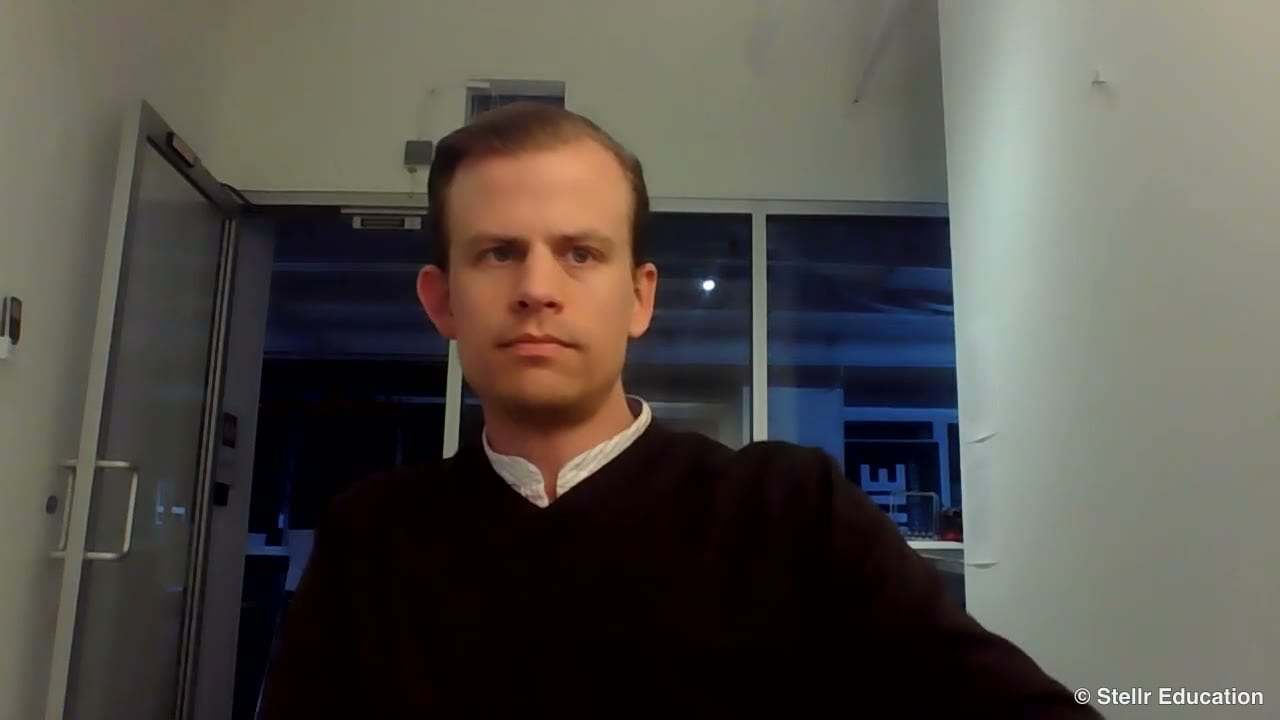
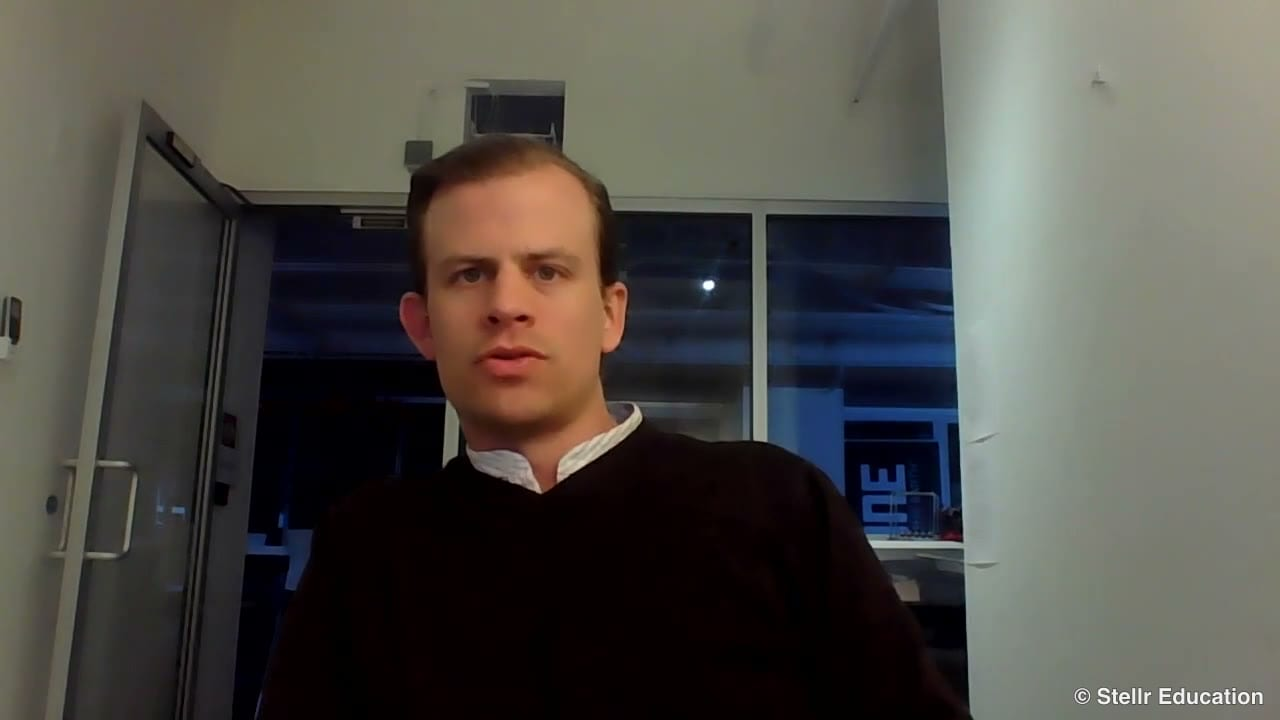
public page updates

Changed region(s): [[0.3125, 0.1222, 0.5625, 0.7028], [0.5625, 0.6111, 0.875, 1.0]]

diff --git a/app/(public)/why-stellr/page.tsx b/app/(public)/why-stellr/page.tsx
@@ -2,8 +2,9 @@ import type { Metadata } from 'next'
 import { ArrowRight, Check } from 'lucide-react'
 import { Launch, Certificate, Team, Award, Global } from '@stellr/icons'
 import { Hero, Eyebrow, Button } from '@stellr/web-ui'
-import { PageMedia } from '@/components/sections/PageMedia'
-import { PHOTOS, VIDEOS, QUOTES, COMPETITION } from '@/lib/media-manifest'
+import { VideoTestimonial } from '@/components/sections/VideoTestimonial'
+import { WorkCard } from '@/components/sections/WorkCard'
+import { VIDEOS, QUOTES, COMPETITION } from '@/lib/media-manifest'
 
 export const metadata: Metadata = {
   title: 'Why Stellr?',
@@ -123,6 +124,8 @@ export default function WhyStellrPage() {
                 <p className="mt-1.5 text-[15px] text-content-secondary leading-relaxed">{c.body}</p>
               </div>
             ))}
+            {/* Free-to-download document (moved here as a fourth card) */}
+            <WorkCard asset={COMPETITION['legacy-rfp-south-dakota-2025']} />
           </div>
         </div>
       </section>
@@ -167,6 +170,17 @@ export default function WhyStellrPage() {
                 For educators &amp; schools
               </Button>
             </div>
+
+            {/* Video testimonial (moved here, under the CTA buttons) */}
+            <figure className="mt-8">
+              <VideoTestimonial
+                src={VIDEOS['testimonial-sepp'].src}
+                poster={VIDEOS['testimonial-sepp'].poster}
+                captionsSrc={VIDEOS['testimonial-sepp'].captions}
+                title={VIDEOS['testimonial-sepp'].title}
+              />
+              <figcaption className="mt-3 text-sm font-semibold text-ink">{VIDEOS['testimonial-sepp'].title}</figcaption>
+            </figure>
           </div>
 
           {/* Checklist card */}
@@ -193,8 +207,8 @@ export default function WhyStellrPage() {
 
       {/* ── Parents ───────────────────────────────────────────────────── */}
       <section id="parents" className="section-padding bg-white scroll-mt-28">
-        <div className="container-max">
-          <div className="max-w-[680px]">
+        <div className="container-max grid grid-cols-1 lg:grid-cols-[1.05fr_0.95fr] gap-14 items-start">
+          <div>
             <SectionHead
               Icon={Team}
               tileBg="bg-space-violet"
@@ -210,18 +224,25 @@ export default function WhyStellrPage() {
               career can really look like.
             </p>
 
-            {/* Testimonial */}
+            {/* Testimonial — Jason Zibart, 2025 */}
             <blockquote className="mt-7 bg-space-violet-bg border-l-[3px] border-space-violet rounded-r-xl px-7 py-6">
               <p className="font-display text-xl font-medium text-ink leading-snug">
-                &ldquo;My son said it was one of the most exciting, exhilarating, challenging and memorable
-                events in his life.&rdquo;
+                &ldquo;{QUOTES['jason-zibart'].text}&rdquo;
               </p>
-              <footer className="mt-3 text-[13.5px] text-[#6B6790]">— Parent, 2022</footer>
+              <footer className="mt-3 text-[13.5px] text-[#6B6790]">
+                &mdash; {QUOTES['jason-zibart'].name} · {QUOTES['jason-zibart'].meta}
+              </footer>
             </blockquote>
+
+            <div className="mt-7">
+              <Button href={`${WWW}/events`} variant="primary">
+                Find an event near you
+              </Button>
+            </div>
           </div>
 
-          {/* Feature cards */}
-          <div className="grid grid-cols-1 sm:grid-cols-3 gap-4 mt-8 max-w-[680px]">
+          {/* Feature cards — right side, stacked */}
+          <div className="flex flex-col gap-4">
             {[
               {
                 title: 'Safe & structured',
@@ -241,12 +262,6 @@ export default function WhyStellrPage() {
                 <p className="mt-2 text-[14.5px] text-content-secondary leading-relaxed">{c.body}</p>
               </div>
             ))}
-          </div>
-
-          <div className="mt-7">
-            <Button href={`${WWW}/events`} variant="primary">
-              Find an event near you
-            </Button>
           </div>
         </div>
       </section>
@@ -347,9 +362,16 @@ export default function WhyStellrPage() {
           </div>
 
           <div className="flex flex-wrap items-center gap-3 mt-8">
-            <Button href={`${WWW}/contact?type=sponsorship`} variant="primary">
+            {/* Prospectus download — inactive until the document is ready (matches /network). */}
+            <button
+              type="button"
+              disabled
+              aria-disabled="true"
+              title="Coming soon"
+              className="inline-flex items-center justify-center gap-2 rounded-control px-6 py-3 font-subheading font-semibold text-sm text-content-faint bg-surface border border-line cursor-not-allowed opacity-70"
+            >
               Request prospectus
-            </Button>
+            </button>
             <a
               href={`${WWW}/donate`}
               className="inline-flex items-center justify-center gap-2 rounded-control px-6 py-3 font-subheading font-semibold text-sm text-white bg-donate-gold hover:bg-[#C9892C] transition-colors"
@@ -357,7 +379,7 @@ export default function WhyStellrPage() {
               Make a donation
             </a>
             <p className="text-[13.5px] text-content-faint">
-              Full packages, reach statistics and impact data included.
+              Prospectus coming soon — full packages, reach statistics and impact data.
             </p>
           </div>
         </div>
@@ -381,16 +403,6 @@ export default function WhyStellrPage() {
           </div>
         </div>
       </section>
-
-      {/* ── Media: proof, voices & student work ───────────────────────── */}
-      <PageMedia
-        heading="The proof, in their own words"
-        photos={[PHOTOS['why-1'], PHOTOS['why-2'], PHOTOS['why-3'], PHOTOS['why-4']]}
-        videos={[VIDEOS['testimonial-sepp']]}
-        quotes={[QUOTES['jason-zibart']]}
-        competition={[COMPETITION['legacy-rfp-south-dakota-2025']]}
-        background="white"
-      />
     </>
   )
 }

diff --git a/app/(public)/about/page.tsx b/app/(public)/about/page.tsx
@@ -2,8 +2,9 @@ import type { Metadata } from 'next'
 import Image from 'next/image'
 import Link from 'next/link'
 import { Linkedin, Award, Lightbulb, Eye, Network as NetworkIcon } from 'lucide-react'
-import { PageMedia } from '@/components/sections/PageMedia'
-import { PHOTOS, VIDEOS, QUOTES } from '@/lib/media-manifest'
+import { VideoTestimonial } from '@/components/sections/VideoTestimonial'
+import { PullQuoteWall } from '@/components/sections/PullQuoteWall'
+import { VIDEOS, QUOTES } from '@/lib/media-manifest'
 
 export const metadata: Metadata = {
   title: 'About Stellr',
@@ -201,6 +202,18 @@ export default function AboutPage() {
             })}
           </div>
 
+          {/* Founder video testimonial (moved above Our Goal, centred) */}
+          <figure className="max-w-3xl mx-auto mb-16">
+            <VideoTestimonial
+              src={VIDEOS['testimonial-david-shaw'].src}
+              poster={VIDEOS['testimonial-david-shaw'].poster}
+              title="David Shaw, Founder, Stellr Education"
+            />
+            <figcaption className="mt-3 text-center text-sm font-semibold text-brand-blue-dark">
+              David Shaw, Founder, Stellr Education
+            </figcaption>
+          </figure>
+
           {/* Our Goal */}
           <h2 className="text-3xl font-bold text-brand-blue-dark mb-4">Our Goal</h2>
           <p className="text-brand-grey-dark leading-relaxed max-w-3xl mb-6">
@@ -260,12 +273,12 @@ export default function AboutPage() {
 
       {/* ── #team ────────────────────────────────────────────────────── */}
       <section id="team" className="section-padding bg-brand-grey-light scroll-mt-36">
-        <div className="container-max">
+        <div className="container-max text-center">
           <p className="text-sm font-bold uppercase tracking-widest text-brand-blue mb-3">Our Team</p>
           <h2 className="text-3xl font-bold text-brand-blue-dark mb-10">The people behind Stellr</h2>
 
           {/* Founder */}
-          <div className="bg-white rounded-2xl p-8 shadow-sm max-w-md mb-12">
+          <div className="bg-white rounded-2xl p-8 shadow-sm max-w-md mb-12 mx-auto text-left">
             <Avatar
               name={founder.name}
               photo={founder.photo}
@@ -320,6 +333,11 @@ export default function AboutPage() {
               </div>
             ))}
           </div>
+
+          {/* Written testimonial (moved below Advisory Board) */}
+          <div className="mt-14 max-w-2xl mx-auto text-left">
+            <PullQuoteWall quotes={[QUOTES['alvina-gakhokidze']]} columns={1} />
+          </div>
         </div>
       </section>
 
@@ -341,14 +359,6 @@ export default function AboutPage() {
           </div>
         </div>
       </section>
-
-      {/* ── Media: our mission & people ───────────────────────────────── */}
-      <PageMedia
-        heading="Our mission, in the room"
-        photos={[PHOTOS['about-award-1'], PHOTOS['about-award-2'], PHOTOS['about-team-1'], PHOTOS['about-team-2']]}
-        videos={[VIDEOS['testimonial-david-shaw']]}
-        quotes={[QUOTES['alvina-gakhokidze']]}
-      />
     </>
   )
 }

diff --git a/app/(public)/contact/page.tsx b/app/(public)/contact/page.tsx
@@ -1,5 +1,5 @@
 import type { Metadata } from 'next'
-import { Mail, MapPin } from 'lucide-react'
+import { Mail, MapPin, Phone } from 'lucide-react'
 import { ContactForm } from '@/components/forms/ContactForm'
 
 export const metadata: Metadata = {
@@ -60,10 +60,20 @@ export default async function ContactPage({ searchParams }: PageProps) {
                 </div>
 
                 <div className="flex items-start gap-3">
+                  <Phone size={18} className="text-brand-blue mt-0.5 shrink-0" />
+                  <div>
+                    <p className="text-sm font-semibold text-brand-blue-dark">Phone</p>
+                    <a href="tel:+18018105848" className="text-sm text-brand-blue hover:underline">
+                      +1 (801) 810-5848
+                    </a>
+                  </div>
+                </div>
+
+                <div className="flex items-start gap-3">
                   <MapPin size={18} className="text-brand-blue mt-0.5 shrink-0" />
                   <div>
                     <p className="text-sm font-semibold text-brand-blue-dark">Based in</p>
-                    <p className="text-sm text-brand-grey-dark">United States</p>
+                    <p className="text-sm text-brand-grey-dark">Salt Lake City, Utah</p>
                   </div>
                 </div>
               </div>

diff --git a/app/(public)/impact/page.tsx b/app/(public)/impact/page.tsx
@@ -294,7 +294,7 @@ export default function ImpactPage() {
       </section>
 
       {/* ── 7. A note on AI ───────────────────────────────────────────── */}
-      <section className="relative overflow-hidden bg-midnight text-white py-16 px-4 sm:px-6 lg:px-8 bg-[radial-gradient(130%_120%_at_80%_-10%,#20274F_0%,#11163A_50%,#0B0F28_100%)]">
+      <section id="AI" className="relative overflow-hidden bg-midnight text-white py-16 px-4 sm:px-6 lg:px-8 scroll-mt-24 bg-[radial-gradient(130%_120%_at_80%_-10%,#20274F_0%,#11163A_50%,#0B0F28_100%)]">
         <div className="container-max">
           <Eyebrow className="text-[#9FB0FF]">A note on AI</Eyebrow>
           <h2 className="mt-3 font-display text-3xl sm:text-[44px] font-bold tracking-[-0.03em] leading-[1.05] max-w-3xl">

diff --git a/lib/media-manifest.ts b/lib/media-manifest.ts
@@ -207,7 +207,7 @@ export const COMPETITION: Record<string, CompetitionAsset> = {
     previewHref: '/files/legacy-rfp-south-dakota-2025.pdf',
     gated: false,
     fileHref: '/files/legacy-rfp-south-dakota-2025.pdf',
-    credit: 'InSimEd',
+    credit: 'Stellr',
   },
   'jsc-2025-program-book': {
     id: 'jsc-2025-program-book',

diff --git a/components/layout/Navbar.tsx b/components/layout/Navbar.tsx
@@ -65,6 +65,7 @@ const navLinks = [
     dropdown: [
       { label: 'Why Stellr', href: '/why-stellr' },
       { label: 'Impact', href: '/impact' },
+      { label: 'A Note On AI', href: '/impact#AI' },
       { label: 'Mission', href: '/about#mission' },
       { label: 'Our Team', href: '/about#team' },
       { label: 'Contact Us', href: '/contact' },